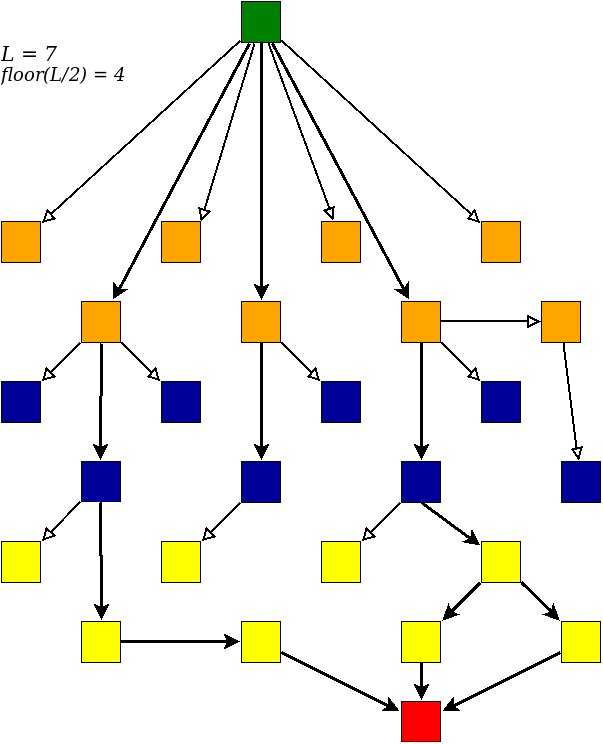
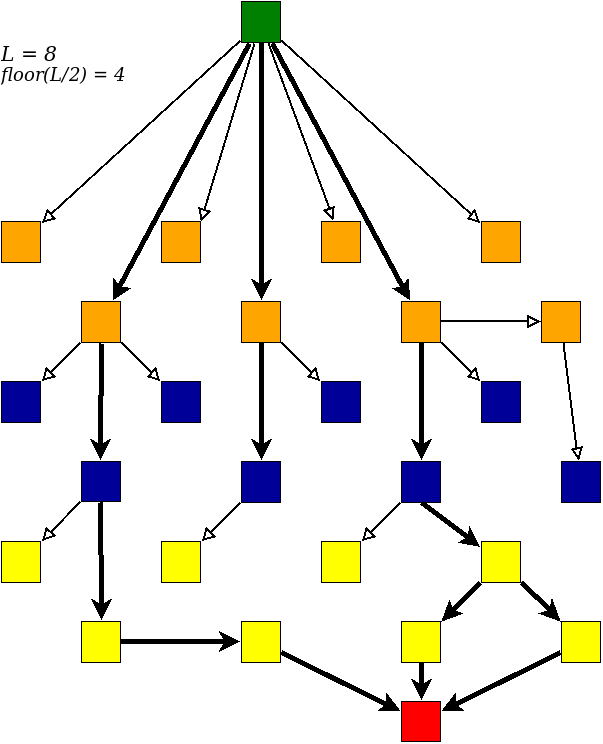
- fixed diagram 2 - cleared up binary spray and wait prose - made other minor corrections

diff --git a/whitepaper/whitepaper.tex b/whitepaper/whitepaper.tex
@@ -89,14 +89,14 @@
   
   \section{Method}
   
-  As noted in Section~\ref{subsec:dtn}, we believe the concept of DTN, store-and-forward routing with opportunistic sending, is great for disconnected parties wishing to communicate without Internet access, but the specific protocol is difficult to work with and has security as an afterthought---and even if it were perfect for our needs, no stable implementations exist. We have therefore implemented our own version of the DTN protocol. The following sections will describe how each major Endrun component works.
+  As noted in Section~\ref{subsec:dtn}, we believe that the DTN concept of store-and-forward routing with opportunistic sending is great for disconnected parties wishing to communicate without Internet access. However, the specific protocol is difficult to work with and has security as an afterthought---and even if it were perfect for our needs, no stable implementations exist. We have therefore implemented our own version of the DTN protocol. The following sections will describe how each major Endrun component works.
   
   \subsection{Routing}
   \label{subsec:routing}
   
-    Delay-Tolerant networking, like TCP/IP, assigns an address to each node in a network, and passes traffic between nodes via whatever route is available. Unlike TCP/IP, however, DTN nodes do not engage in any sort of handshake to exchange data in an end-to-end fashion; instead, each sequential pair of nodes in a communication pathway exchange data and sign a chain of custody showing that they successfully received and have taken responsibility for the data.
+    Delay-Tolerant Networking, like TCP/IP, assigns an address to each node in a network, and passes traffic between nodes via whatever route is available. Unlike TCP/IP, however, DTN nodes do not engage in any sort of handshake to exchange data in an end-to-end fashion; instead, each sequential pair of nodes in a communication pathway exchange data, and the recipient signs a chain of custody showing that it has successfully received and has taken responsibility for the data.
     
-    Data may take any available path between a pair of nodes in a chain; it might use physical data transport (sneakernet), a radio link, or anything else that is available (including TCP/IP, where that is possible). The crucial difference is that there is no expectation that the source and destination node will be communicating simultaneously at any point; instead, only pairs in the chain will communicate, as shown in Figure~\ref{fig:chaincomm}.
+    Data may take any available path between a pair of nodes in a chain. It might use physical data transport (sneakernet), a radio link, or anything else that is available (including TCP/IP, where that is possible). The crucial difference is that there is no expectation that the source and destination node will be communicating simultaneously at any point; instead, only pairs in the chain will communicate, as shown in Figure~\ref{fig:chaincomm}.
     
     \begin{figure}[h]
       \centering
@@ -107,12 +107,12 @@
     
     Because links between nodes are transient, our implementation of DTN does not use anything resembling a traditional routing table. Instead, it uses the ``binary spray and wait'' transmission strategy.\footnote{Spyropoulos, Thrasyvoulos, Konstantinos Psounis, and Cauligi Raghavendra. ``Spray and Wait: An Efficient Routing Scheme for Intermittently Connected Mobile Networks.'' Proceedings of the 2005 ACM SIGCOMM Workshop on Delay-tolerant Networking, 2005.} Binary spray and wait allows for the transmission of data with minimal delay and highest efficiency with regards to network traffic, while still allowing for transience in connectivity.
     
-    Binary spray-and-wait sets a ceiling on the number of payload copies \(L\) that can exist within the network. When a payload is being sent, the originating node starts in ``spray'' mode, where it transmits a copy of the payload to \(floor(L/2)\) nodes; each subsequent node then transmits half of their total payload copies to every other node without a copy of the payload. When a node has 1 copy of the message remaining, it switches to ``wait'' mode, where it holds a copy of the payload until either it makes direct contact with the recipient node or the TTL is reached. Figure~\ref{fig:spraywait} shows an example of how the binary spray-and-wait algorithm works.
+    Binary spray-and-wait sets a ceiling on the number of payload copies \(L\) that can exist within the network. When a payload is being sent, the originating node starts in ``spray'' mode, where it transmits \(L\) copies of the payload to all available nodes; each subsequent node then transmits \(floor(X/2)\) of their total payload copies to every other node without a copy of the payload, where \(X\) is the number of payload copies available to the node. When a node has 1 copy of the message remaining, it switches to ``wait'' mode, where it holds a copy of the payload until either it makes direct contact with the payload's intended recipient or the payload's TTL is reached. Figure~\ref{fig:spraywait} shows an example of how the binary spray-and-wait algorithm works.
     
     \begin{figure}[h]
       \centering{}
       \includegraphics[scale=0.45]{Diagram2.png}
-      \caption{An example of how nodes distribute copies of a payload using the binary spray-and-wait strategy.}
+      \caption{An example of how nodes distribute copies of a payload using the binary spray-and-wait strategy. The green node begins by distributing 8 copies of the payload to every other node it has contact with; the second batch of nodes send 4 copies, the third batch 2 copies, and the final batch holds 1 copy until direct contact with the payload's intended recipient can be made.}
       \label{fig:spraywait}
     \end{figure}
     
